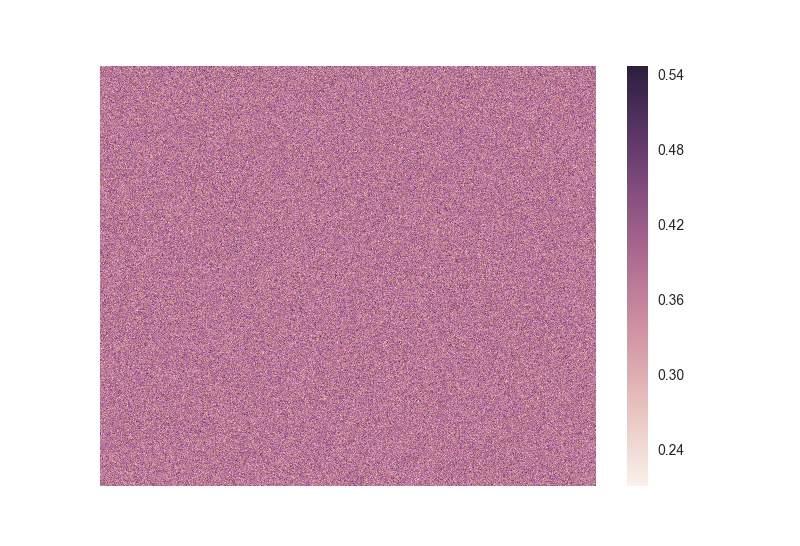
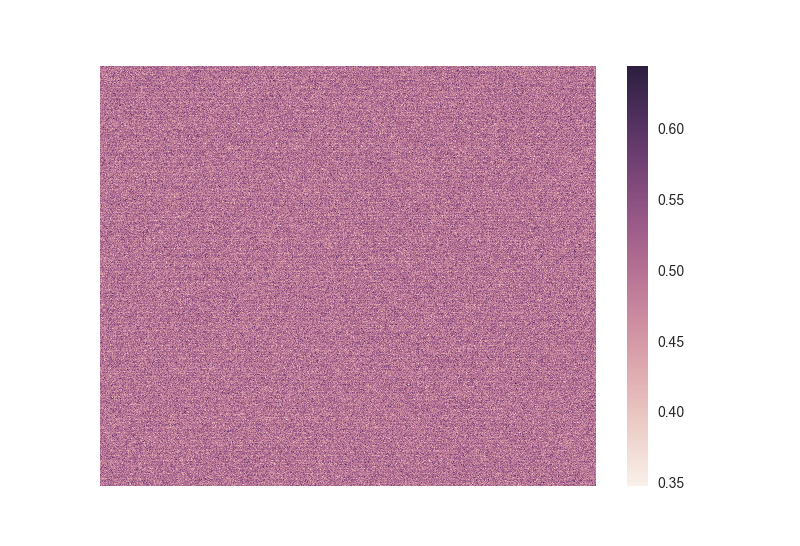
added heatmap images

diff --git a/make_heatmap64.py b/make_heatmap64.py
@@ -4,14 +4,14 @@ import numpy as np
 
 
 
-arr = np.zeros((1024,1024))
+arr = np.zeros((64,64))
 
 
 line_index = 0
 
-for line in open("0.75HM.csv"):
+for line in open("0.25HMtest.csv"):
 
-	if line_index > 1023:
+	if line_index > 63:
 		break
 
 	nums = line.split(",")
